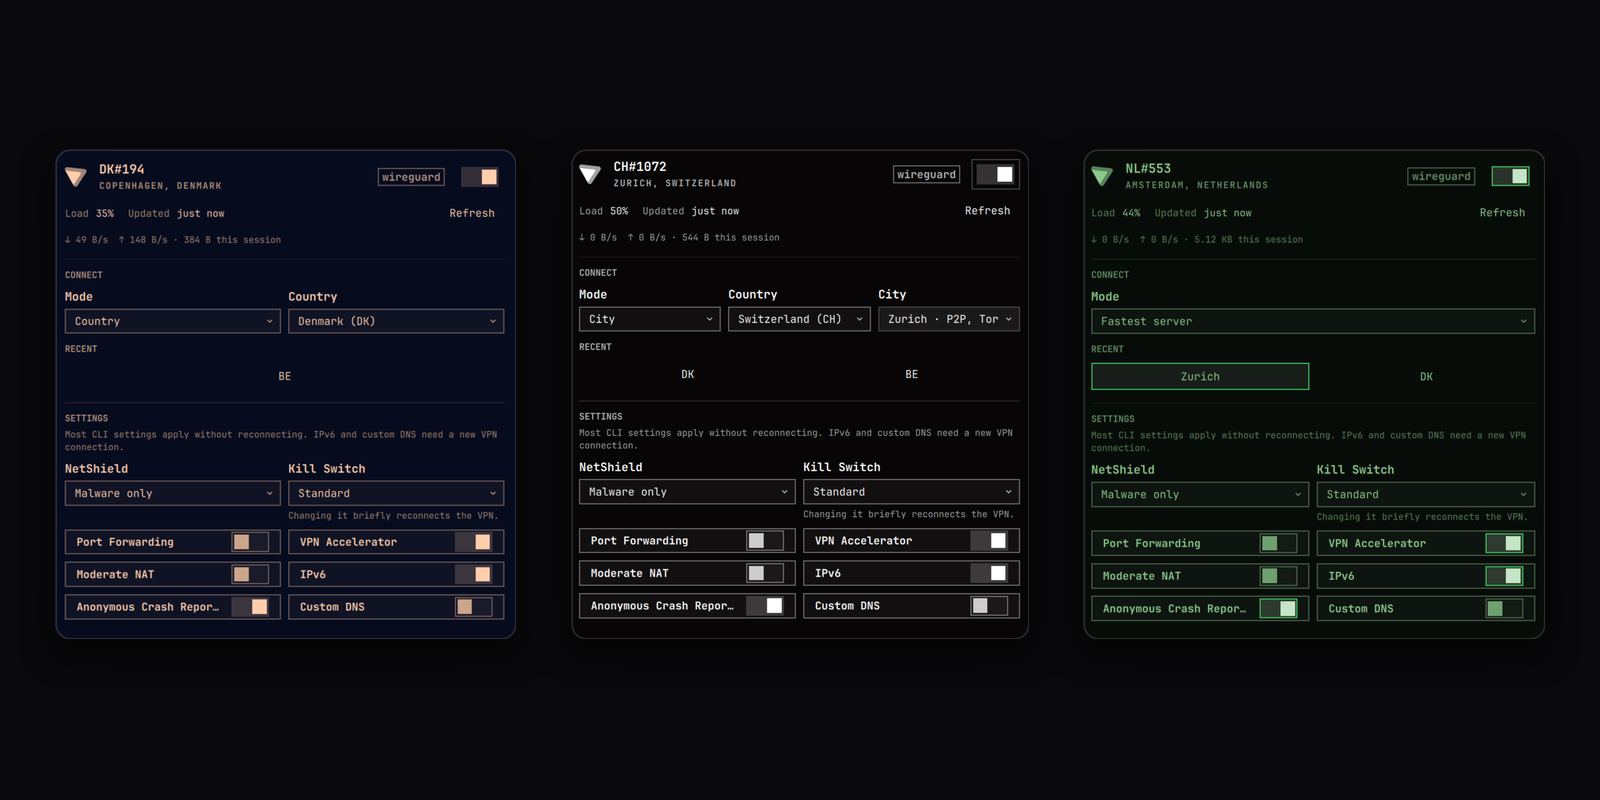
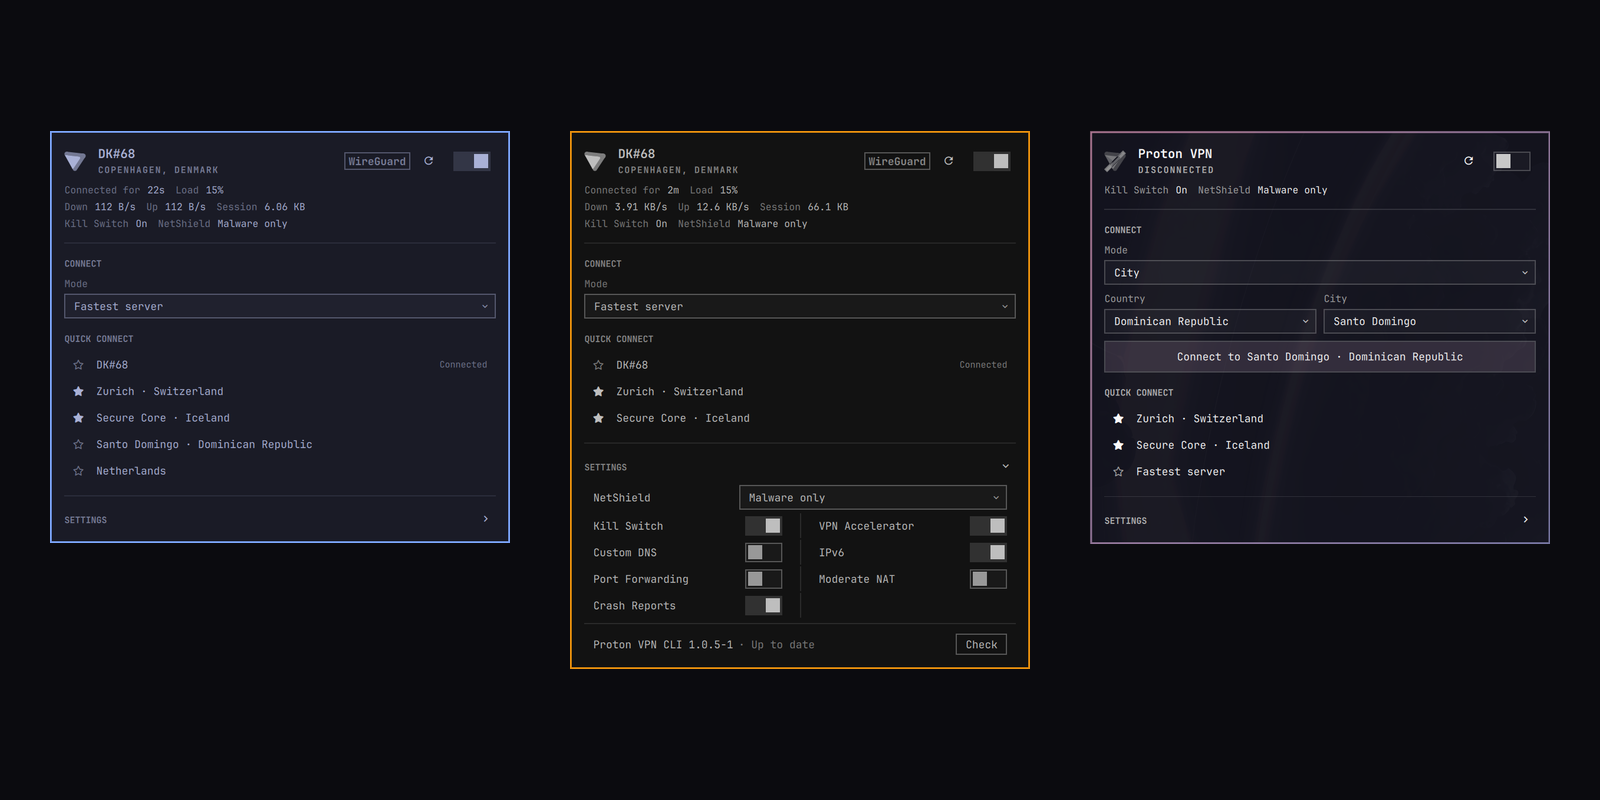
Refresh the screenshots and preview, and run through the docs
New real-bar screenshots of 1.4.0 in three themes: connected with QUICK
CONNECT in Tokyo Night, SETTINGS open in Matte Black, and City mode
while disconnected in InkyPinky, also composed into the marketplace
preview. The connected shots use a connection made outside the panel,
so no exit IP appears.

The README now describes the SETTINGS layout and footer, the f key, the
CLI version and update check, where tooltips carry the old captions,
what check.sh validates, scripts/load-smoke.sh, and a failed Check.

Changed region(s): [[0.0312, 0.1562, 0.9688, 0.8438], [0.5938, 0.4375, 0.625, 0.4688]]

diff --git a/README.md b/README.md
@@ -1,9 +1,9 @@
 # Proton VPN for Omarchy
 
 <p align="center">
-  <img src="docs/images/panel-country.png" alt="Proton VPN panel in a navy Omarchy theme, connected to DK#194 in Copenhagen in Country mode, with live traffic, BE under RECENT, and settings below" width="32%">
-  <img src="docs/images/panel-city.png" alt="Proton VPN panel in a monochrome Omarchy theme, connected to CH#1072 in Zurich in City mode, with DK and BE under RECENT" width="32%">
-  <img src="docs/images/panel-fastest.png" alt="Proton VPN panel in a green Omarchy theme, connected to NL#553 in Amsterdam on the fastest server, with Zurich selected under RECENT" width="32%">
+  <img src="docs/images/panel-connected.png" alt="Proton VPN panel in the Tokyo Night theme, connected to DK#68 in Copenhagen, with live traffic, Kill Switch and NetShield status, and QUICK CONNECT listing the connection, two starred favorites, and two recent places" width="32%">
+  <img src="docs/images/panel-settings.png" alt="Proton VPN panel in the Matte Black theme, connected to DK#68, with SETTINGS open: NetShield, seven switches in two columns, and the Proton VPN CLI version marked up to date with a Check button" width="32%">
+  <img src="docs/images/panel-city.png" alt="Proton VPN panel in the InkyPinky theme, disconnected, with City mode set to Santo Domingo in the Dominican Republic and a Connect to Santo Domingo · Dominican Republic button" width="32%">
 </p>
 
 A bar widget and keyboard-driven panel for Omarchy 4.5 or later that controls Proton VPN through Proton's official Linux CLI, `protonvpn`. Every connection and setting change goes through that CLI. The plugin does not reimplement Proton protocols, call Proton's private APIs, handle your credentials, or edit Proton's files, and the only network request of its own is the update check you start from the panel. [Privacy](#privacy) lists exactly what it runs.
@@ -19,6 +19,7 @@ A bar widget and keyboard-driven panel for Omarchy 4.5 or later that controls Pr
 - Warns when the tunnel is up but nothing comes back through it, which a plain "connected" hides.
 - Sends a desktop notification when the VPN drops while the panel is closed; clicking it opens the panel. It can also reconnect for you, connect when you log in, and connect on Wi-Fi networks you have not trusted.
 - Installs the CLI and signs you in from the panel, through Omarchy's own terminal windows, and signs you out again after asking.
+- Shows the installed CLI version and the latest one your package database knows, checks your Arch mirrors when you ask, and opens Omarchy's system update when there is a newer one.
 - Follows your Omarchy theme and language, and the panel works entirely from the keyboard.
 
 ## What you need
@@ -109,6 +110,7 @@ Inside the panel:
 - `h` / `l` or left/right arrows move the cursor across a row
 - `Enter` / `Space` activates the selected control
 - `t` toggles connect/disconnect with the same safety gate as right-click
+- `f` stars or unstars the QUICK CONNECT row under the cursor
 - `s` shows or hides SETTINGS, which starts folded so the panel opens on status and CONNECT
 - `r` refreshes
 - `Tab` / `Shift+Tab` switches to the next bar panel
@@ -120,7 +122,7 @@ CONNECT has Mode on its own row and the place, Country and City or a Server ID, 
 
 Country and city lists come from `protonvpn countries list` and `protonvpn cities list`. Server IDs are entered as text because the CLI does not expose a machine-readable server list; Proton publishes IDs at [the account WireGuard server list](https://account.proton.me/vpn/WireGuard).
 
-Settings cover every value exposed by `protonvpn config` on the tested CLI 1.0.1–1.0.5 range: NetShield, Kill Switch, port forwarding, custom DNS, VPN Accelerator, moderate NAT, IPv6, and anonymous crash reports. Changing Kill Switch while connected asks first, with Cancel selected. Confirming disconnects, changes the setting, and reconnects to the same target. If Proton rejects the change, the panel still reconnects and shows the error. IPv6 and custom DNS need a new VPN connection to apply. Custom DNS is validated locally and passed as one `--dns` argument.
+SETTINGS shows NetShield on its own row, the switches in two columns, and the CLI on a footer line. Settings cover every value exposed by `protonvpn config` on the tested CLI 1.0.1–1.0.5 range: NetShield, Kill Switch, port forwarding, custom DNS, VPN Accelerator, moderate NAT, IPv6, and anonymous crash reports. Changing Kill Switch while connected asks first, with Cancel selected. Confirming disconnects, changes the setting, and reconnects to the same target. If Proton rejects the change, the panel still reconnects and shows the error. IPv6 and custom DNS need a new VPN connection to apply. Custom DNS is validated locally and passed as one `--dns` argument.
 
 With Kill Switch on, a drop leaves internet traffic blocked until the VPN reconnects. The panel reads that from NetworkManager's active connections: the bar icon turns urgent and the panel says traffic is blocked, so you know to connect again or turn Kill Switch off.
 
@@ -128,11 +130,11 @@ With port forwarding on, the panel repeats what the CLI says after connecting: w
 
 On Proton's free plan the CLI only connects to the fastest server. When `protonvpn config list` marks settings "Upgrade to enable", the panel labels the other modes as needing a paid plan and explains that instead of running a command that would fail. A Kill Switch change or an automatic reconnect then returns to the fastest server.
 
-While disconnected, the bottom of SETTINGS offers **Sign out**. It asks first, with Cancel selected, then runs `protonvpn signout`, which also clears the CLI's own settings. Favorites stay. Disconnect first if you are connected.
+While disconnected, the footer line of SETTINGS offers **Sign out**. Pressing it turns the line into a confirm, with Cancel selected; confirming runs `protonvpn signout`, which also clears the CLI's own settings. Favorites stay. Disconnect first if you are connected.
 
-The bottom of SETTINGS shows the installed Proton VPN CLI version and the latest one your package database knows; **Check**'s tooltip says how old that database is. It reads that locally. **Check** asks your Arch mirrors instead, through pacman's `checkupdates`, only when you press it. When a newer version exists, **Update** opens Omarchy's own system update in a terminal, which asks for your password there; Arch does not support updating one package alone, so the CLI updates with everything else.
+The same footer line shows the installed Proton VPN CLI version and the latest one your package database knows; **Check**'s tooltip says how old that database is. It reads that locally. **Check** asks your Arch mirrors instead, through pacman's `checkupdates`, only when you press it. When a newer version exists, **Update** opens Omarchy's own system update in a terminal, which asks for your password there; Arch does not support updating one package alone, so the CLI updates with everything else.
 
-Some rows show a short caption. Hover a CONNECT or SETTINGS control, or move onto it with `j` / `k`, for a Proton-sourced tooltip. That copy is paraphrased from Proton’s official support articles and the Linux CLI guide. It is not a substitute for those pages, and the widget does not fetch Proton’s website.
+Hover a CONNECT or SETTINGS control, or move onto it with `j` / `k`, for a Proton-sourced tooltip. A setting's tooltip also says when it needs a new connection or a paid plan. That copy is paraphrased from Proton’s official support articles and the Linux CLI guide. It is not a substitute for those pages, and the widget does not fetch Proton’s website.
 
 ## Languages
 
@@ -288,6 +290,8 @@ The recorded parser fixtures target CLI versions 1.0.1 through 1.0.5. Versions o
 
 **"Nothing has come back through the tunnel."** The tunnel has sent data for 30 seconds without receiving any. The Proton server or the network under the VPN may be down. Reconnect, or switch servers. An idle tunnel never shows this, and the warning clears as soon as anything arrives.
 
+**Check says "check failed".** pacman's `checkupdates` could not reach your Arch mirrors; Check's tooltip has its message. Retry once the network is up. The installed and latest versions shown come from the local package database either way.
+
 **Status looks outdated.** A failed or timed-out poll keeps the last good result and marks it stale. Connection and settings changes stay disabled until a fresh probe succeeds. Refresh after the network or Proton daemon recovers.
 
 **Paid-plan or invalid option.** The panel shows the CLI message, or its own free-plan note, and keeps the previous healthy status when it can. Fastest connect remains available.
@@ -302,7 +306,13 @@ The recorded parser fixtures target CLI versions 1.0.1 through 1.0.5. Versions o
 ./scripts/check.sh
 ```
 
-That script runs Node and Python tests, `omarchy plugin validate .` when Omarchy is installed, a QML contract check, bounded-runner tests, a `qmllint` syntax check, and shell-load smoke tests. The same portable checks run in GitHub Actions. `qmllint` reports many unresolved-import warnings because Quickshell and Omarchy imports only resolve inside `omarchy-shell`. The script ignores those and fails only on syntax errors, so a pass does not prove the widget loads. Test it in the bar before releasing.
+That script runs the Node and Python tests, `omarchy plugin validate` on a copy of the files a clone would contain (when Omarchy is installed), a check that no tracked file is a symlink, a QML contract check, a `qmllint` syntax check with a two-minute limit, and shell-load smoke tests. The same portable checks run in GitHub Actions. `qmllint` reports many unresolved-import warnings because Quickshell and Omarchy imports only resolve inside `omarchy-shell`. The script ignores those and fails only on syntax errors, so a pass does not prove the widget loads.
+
+```sh
+./scripts/load-smoke.sh
+```
+
+That loads the service and panel in a throwaway Quickshell instance, outside `omarchy-shell`, and fails on QML errors. It runs only read-only Proton and NetworkManager probes. Then test the widget in the bar before releasing; [docs/release-checklist.md](docs/release-checklist.md) lists what to check.
 
 ## Architecture
 

diff --git a/CHANGELOG.md b/CHANGELOG.md
@@ -15,6 +15,7 @@
 - Follow NetworkManager events through `nmcli monitor` instead of polling every 4 seconds, with a poll once a minute as a safety net. `linkWatchIntervalSec` now applies only while events are unavailable.
 - Read traffic counters in place instead of starting `python3` and `cat` for every sample.
 - Fix a successful command with no output reporting "Command failed".
+- Refresh the README screenshots and the marketplace preview in Tokyo Night, Matte Black, and InkyPinky.
 - Keep agent skill folders out of the plugin, validate the files a clone would contain, and add `scripts/load-smoke.sh`, which loads the widget in a throwaway Quickshell instance.
 
 ## 1.3.0 — 2026-10-05

diff --git a/docs/release-checklist.md b/docs/release-checklist.md
@@ -18,7 +18,8 @@ resolve inside `omarchy-shell`. Before tagging a release, load it in a real bar.
      closes it;
    - SETTINGS folds open and closed, and every value matches
      `protonvpn config list`;
-   - Quick connect lists favourites and recents, and `f` stars a row;
+   - QUICK CONNECT lists favorites and recents by full name, and `f` stars a row;
+   - SETTINGS fits without scrolling, and the footer shows the CLI version;
    - a desktop notification arrives when the tunnel goes down while the panel is
      closed (only when it is safe to drop the VPN);
    - `omarchy-shell io.github.BVisagie.protonvpn statusJson` prints JSON.
